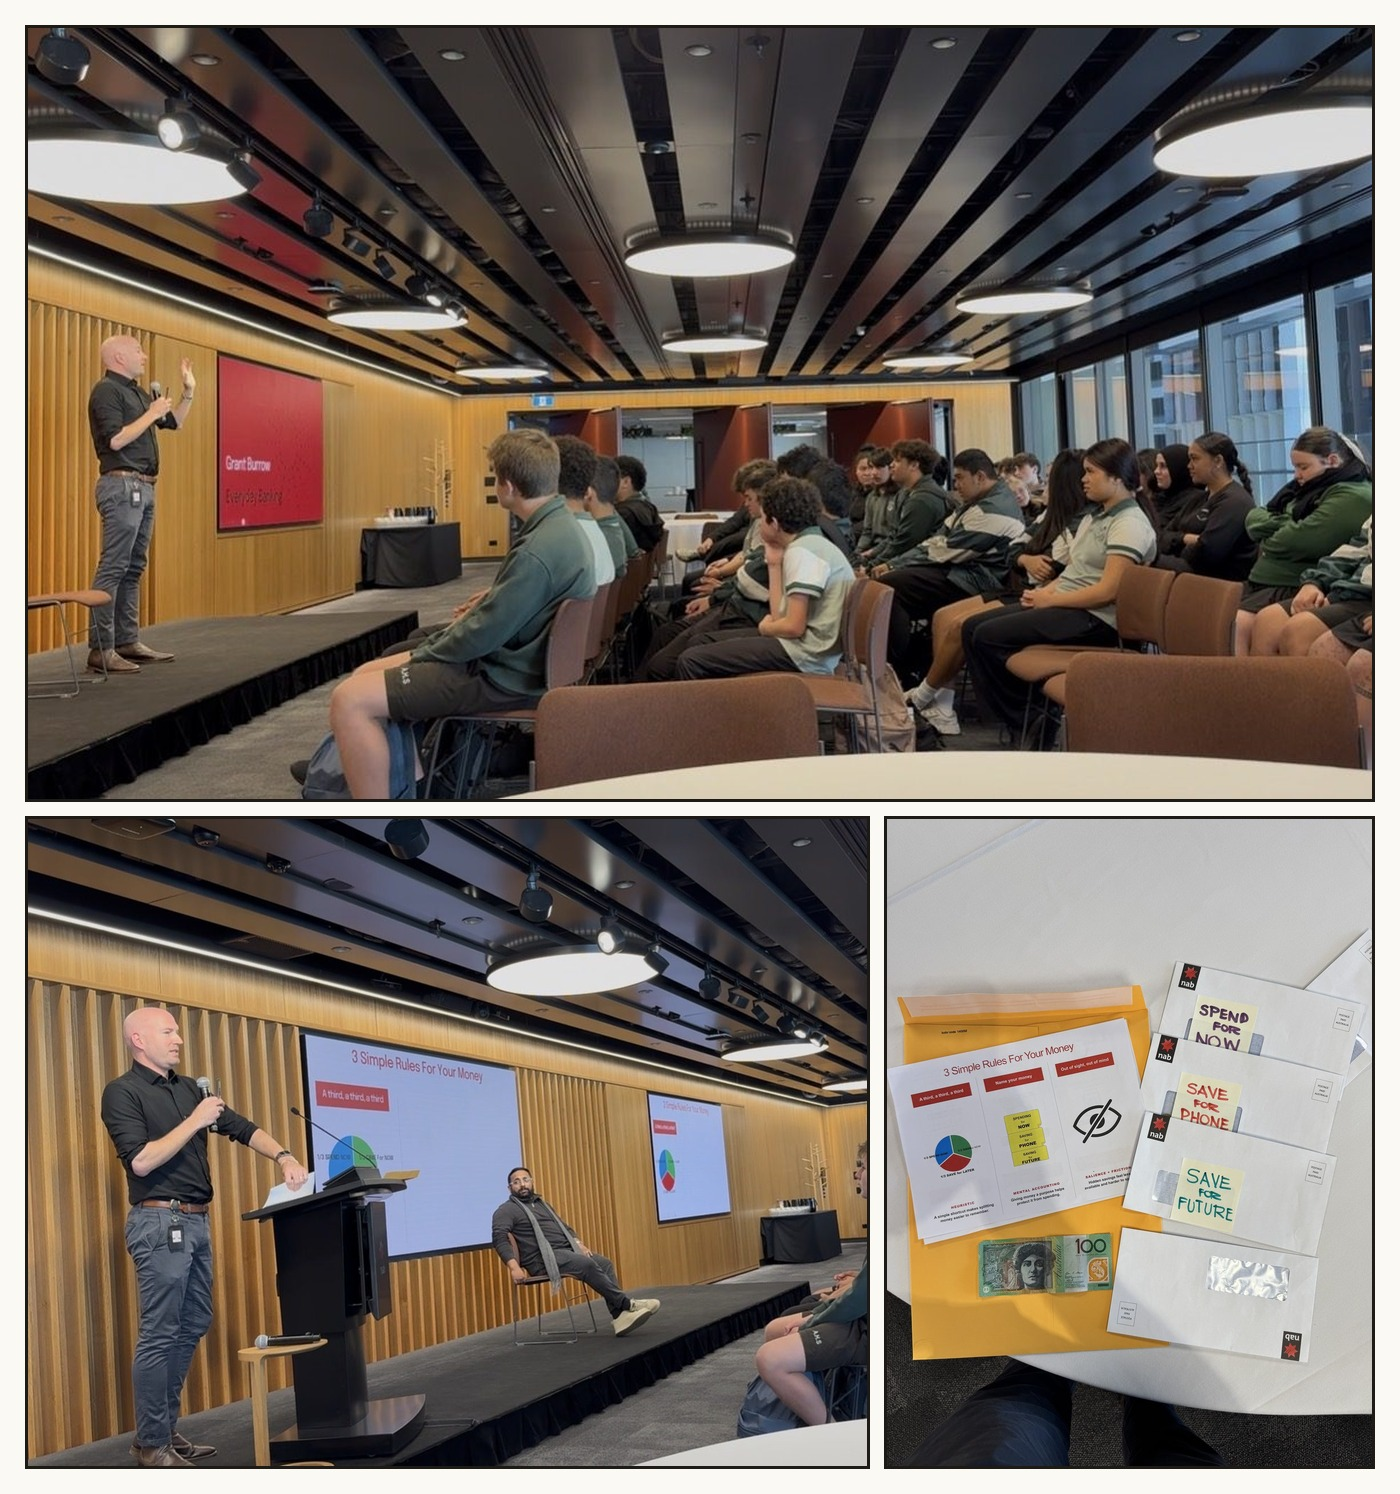
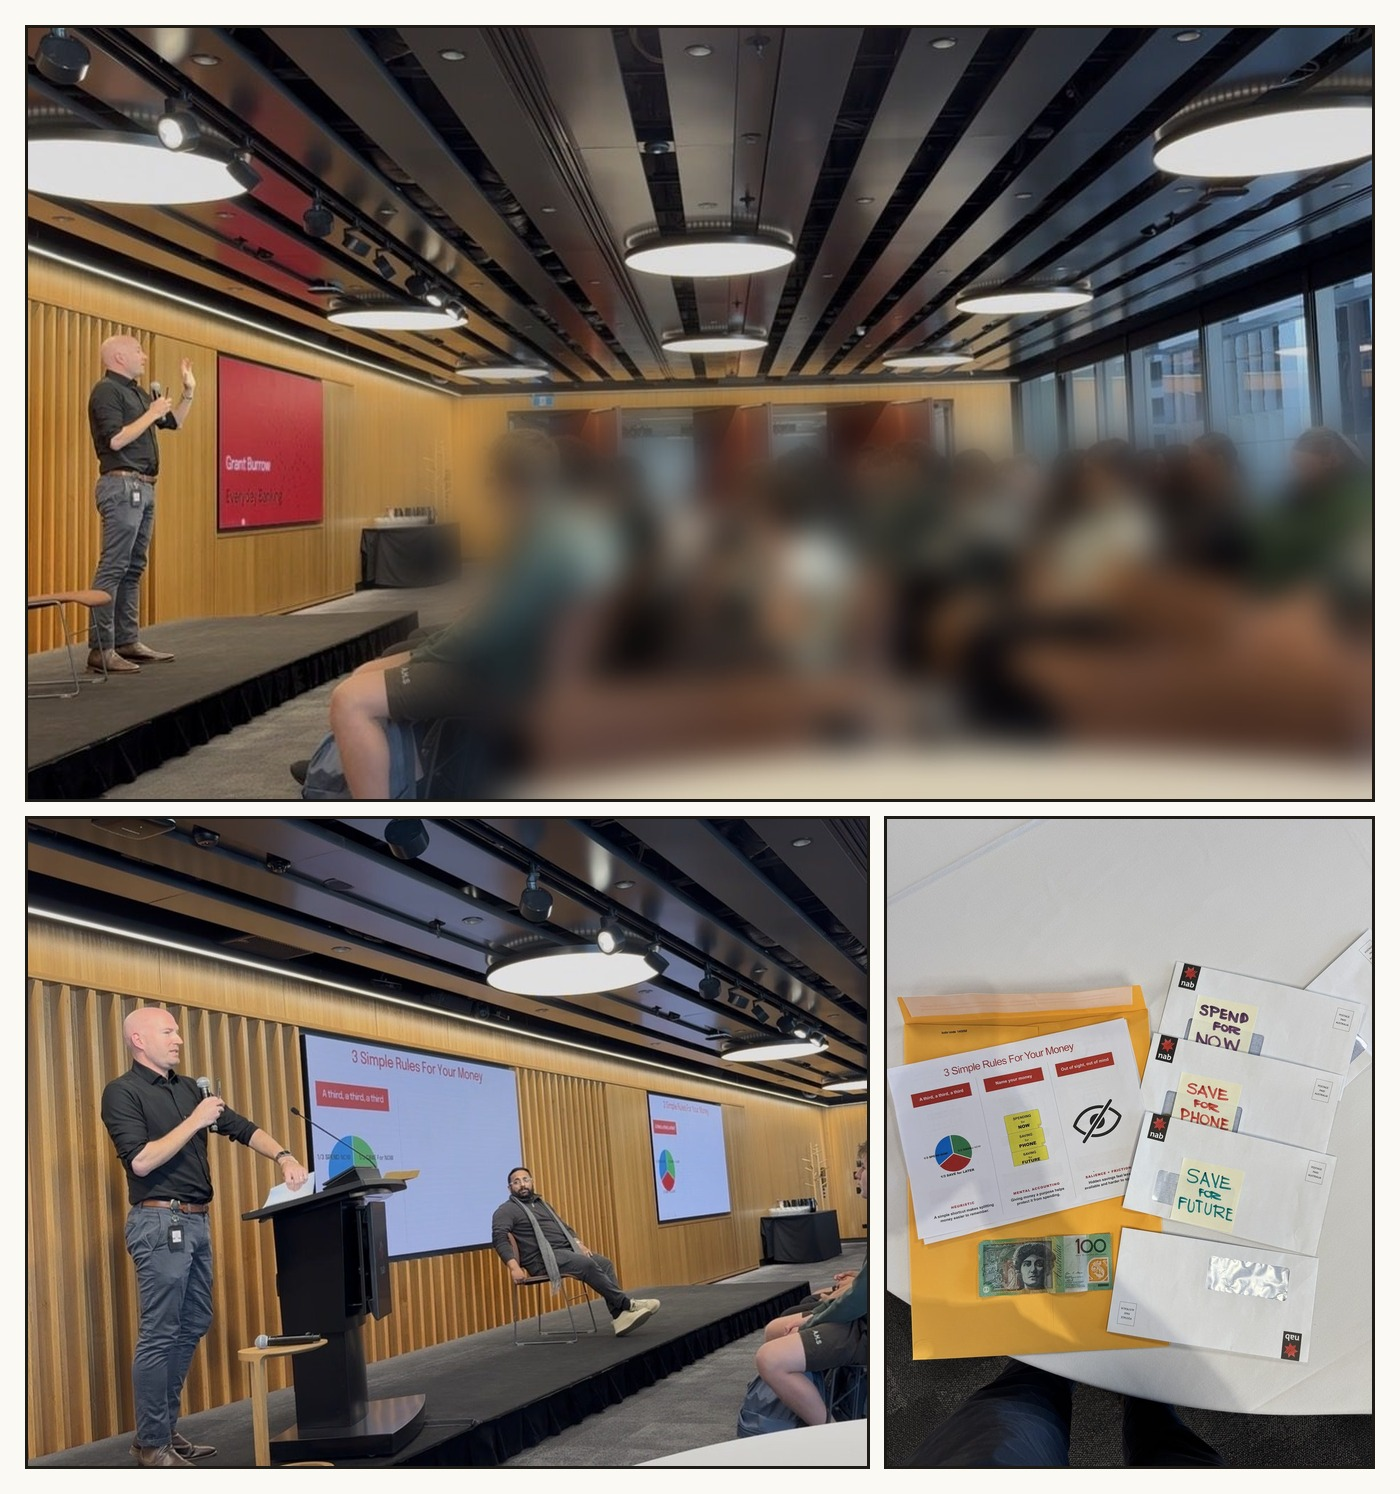
Blur crowd faces in Airds collage, codify copy-edit review format
Feathered blur over the audience block in the room-wide photo (per
direct feedback: students never agreed to appear in a public LinkedIn
post, unlike the same photo's existing use on sessions.html). Also
codifies into article-to-linkedin: every future LinkedIn draft uses
pre-filled, directly-editable text boxes from round one, not just from
round two onward, and any crowd photo gets the same blur treatment
before it goes into a collage.

Claude-Session: https://claude.ai/code/session_01Q6sAq7k5KJdTMe4pCpFx3P

Changed region(s): [[0.2764, 0.2463, 0.9829, 0.5542]]

diff --git a/.claude/skills/article-to-linkedin/SKILL.md b/.claude/skills/article-to-linkedin/SKILL.md
@@ -45,14 +45,14 @@ back any feedback the owner gives on a specific post per that skill's own
 2. **Find the real reason for sharing, and frame it as a service to the reader, not a report on your own work.** "Thought this was interesting" or "check out my latest piece" is exactly the generic framing the brief rejected, but so is a post that reads as "here's some research I did", even a specific, real reason for writing it. His round-1 correction, verbatim: less about the research itself and more "here is some of the interesting behavioural science behind it and how you might harness it in practical ways yourself". Open on a real, concrete, dated personal moment (he received the actual magazine two days ago, he found the actual object in his letterbox), then pivot straight to what the reader can do with the mechanism, not to a description of the piece he wrote. Don't restate the same idea across the first two paragraphs, if the opening moment and the pivot line are both explaining "why does this physical thing still exist", that's one idea said twice, cut one.
 3. **Draft the post applying `my-writing-style`.** Match its "doc / LinkedIn / external" surface section for structure (short paragraphs, a blank line between each, an emoji-bulleted list for a small sample of findings, no greeting), but don't force-fit a habit the profile documents for a different post type when it doesn't actually apply. His sampled posts are all live-event recaps with a named collaborator to thank early; an article share has no event and no collaborator, so that specific device gets dropped rather than manufactured, not silently, note it as a real gap between the sampled voice and this new post type when presenting the draft. Keep the length well under his usual 150-350 words when the post is pointing at a full piece rather than being the whole content itself, aim for roughly 120-220 words so the link still has a reason to be clicked.
 4. **The findings list is 2 main drivers, elaborated, not 3+ raw stats.** A first pass at this skill listed every citable finding in the article as its own one-line emoji bullet, mimicking the shape of his real "small sample" lists without their substance. His correction: pick the top 2 actual drivers of the argument, give each a little real elaboration in plain language, and use the specific numbers and citations as a parenthetical backing detail at the end of that bullet, not as the bullet's entire content. A third genuinely supporting finding can move into the surrounding prose instead of getting its own bullet, it doesn't need equal billing just because the article cites it.
-5. **Build the collage from the article's own real images, nothing stock.** Composite the 2-4 images that most concretely show what the post is about (not every image in the piece, the ones a reader needs to see to get the point) onto one flat image sized for a LinkedIn upload (roughly 1400x1000 or 1200x1200 works well for two portrait-oriented photos side by side). Keep the composition restrained: the site's own paper background token (`#FBF9F4`), a thin ink-toned border per photo, generous margins, no added text, no drop shadows or gradients competing with the real photos. Check every source image against the site's standing no-watermark policy before it goes anywhere near the collage, the same check any image gets before `mockup/images/`. If the article's images are all portrait-oriented, don't force a square or landscape canvas that crops them, size the canvas around what the real images actually are.
+5. **Build the collage from the article's own real images, nothing stock.** Composite the 2-4 images that most concretely show what the post is about (not every image in the piece, the ones a reader needs to see to get the point) onto one flat image sized for a LinkedIn upload (roughly 1400x1000 or 1200x1200 works well for two portrait-oriented photos side by side). Keep the composition restrained: the site's own paper background token (`#FBF9F4`), a thin ink-toned border per photo, generous margins, no added text, no drop shadows or gradients competing with the real photos. Check every source image against the site's standing no-watermark policy before it goes anywhere near the collage, the same check any image gets before `mockup/images/`. If the article's images are all portrait-oriented, don't force a square or landscape canvas that crops them, size the canvas around what the real images actually are. **Blur identifiable bystanders before anyone but him is in frame.** A field-session photo showing a crowd (students, workshop attendees, anyone who didn't agree to appear in a LinkedIn post specifically) needs their faces softened before the collage ships, even though the same unaltered photo is fine on the site's own field-session page, a talk recap on `sessions.html` and a public LinkedIn post are different exposure levels. His actual catch, on the Airds High collage: "Gentle blur / out of focus for th students' faces." The fix that held up: a single feathered Gaussian blur over the whole crowd region (not per-face masking, which is fragile and easy to miss one), leaving him and the stage/screen sharp, so it reads as an intentional shallow-depth-of-field photo rather than a patchy redaction. Never blur him, and never blur an adult professional colleague who's a named, willing participant in the post, this is about people who didn't choose to be identifiable to a LinkedIn audience.
 6. **Hashtags: use his real recurring cluster, don't force a 2-4 cap.** The original brief said "2-4 hashtags that aren't contrived", read the first time as a hard ceiling, which produced a thinner set than he actually wanted. His round-1 correction added four more from his own documented recurring set (`#behaviouralscience #customers #experimentation #outcomes`) on top of the three already there, landing at 7, which matches `my-writing-style`'s own documented range for him (5-7 tags per post) exactly. Default to his real cluster at its natural size, then add only the one or two genuinely article-specific tags on top (a real, standard industry term like `#customerloyalty` or `#directmail`, not a compound invented for the occasion like `#printvsdigital`). "Not contrived" is the actual bar, not a specific number.
 7. **Direct link, plain, no tracking parameters added, introduced as a personal invitation, not a citation label.** The article's canonical URL (`https://www.grantburrow.com/<slug>.html`), on its own line near the end. His round-3 correction: "Full piece, with all the citations:" reads like a formal source label; he changed it to "I did a fuller write up with visuals here for those interested:", a low-key, first-person hand-off rather than an academic pointer. Default to that register for the link line going forward.
 8. **Close on a plain, specific thought, never a tidy summary aphorism.** A first pass closed with "Digital is still cheaper to produce and send. Touch, memory, and price all point the other way", a rule-of-three wrap-up sentence that reads exactly like generated copy dressing up a plain point as a considered one. His catch, verbatim: "This first line reads like classic ai. Sounds like me as a human." The fix wasn't softer wording, it was structural: drop the neat list-of-three-things-that-point-the-other-way shape entirely and end on something a specific person would actually say out loud, a real question posed to the reader, a genuine next step, a plain observation with one real idea in it, not three packaged as a flourish.
 9. **Save the deliverable outside the deployed site.** GitHub Pages only publishes the `mockup/` directory (see `.github/workflows/*.yml`), so a LinkedIn post and its collage are not site content and don't belong there. Save to `linkedin-posts/<article-slug>/post.txt` (the plain post text, ready to paste, nothing else in the file, no headers or metadata) and `linkedin-posts/<article-slug>/collage.png` at the repo root.
 10. **Run the same finishing checks any of his own finished writing gets** before calling it done: the `authentic-voice` skill's fourteen hallmarks (a LinkedIn post is exactly the kind of short, punchy writing where a contrastive "X, not Y" or a rule-of-three sneaks in), no em dash (his own real posts use a spaced hyphen for an aside, never `&mdash;` or `—`), and a genuine read-through from a LinkedIn scroller's seat, not a mechanical checklist pass. Present the draft, name any place a real pattern from the sampled voice didn't apply and had to be dropped or improvised, and invite correction the way `my-writing-style`'s own "Applying this profile" section asks for.
-11. **Use the standing `oscarfinch-feedback-html` format to collect his feedback, item by item.** Don't just show the post as flowing text and wait for a verdict. Break it into the same real decisions this skill makes (opening hook, findings list, any commercial/practical-impact paragraph, closing line, collage, hashtags) as separate cards in that project's standard feedback template, so a "needs work" lands on the specific piece it's about, not the whole post. This is what actually produced the round-1 corrections below, a single freeform "thoughts?" would have gotten a vaguer answer.
-12. **From round 2 onward, once he's actually rewriting sentences rather than describing what's wrong, switch the feedback cards to the copy-edit variant.** See `oscarfinch-feedback-html`'s "A copy-editing request wants a live text box" section: a `<textarea>` pre-filled with the current copy per section, that he edits directly, instead of a toggle plus a comment describing the edit. His round-2 catch, verbatim: "want a section per content when the current copy is and I'll edit it … easier for this kind of copy editing." Round 1's toggle-plus-comment shape is still the right default for the very first pass (he's judging pieces, not yet rewriting them), but don't make him ask for the copy-edit variant twice on the same post, offer it as soon as a round produces an actual rewritten sentence in his feedback rather than a description of one.
+11. **Use the standing `oscarfinch-feedback-html` format to collect his feedback, item by item, and use the copy-edit variant for every text card from round 1, not just from round 2 onward.** Break the post into the same real decisions this skill makes (opening hook, findings list, any commercial/practical-impact paragraph, closing line, hashtags) as separate cards, so a "needs work" lands on the specific piece it's about, not the whole post. Every card whose content is prose he might want to rewrite gets a `<textarea data-copytext>` **pre-filled with the current copy** (per `oscarfinch-feedback-html`'s "A copy-editing request wants a live text box" section) so he can edit directly in the box, rather than a toggle plus a comment describing the edit he wants. This was originally scoped to "round 2 onward, once he's actually rewriting sentences," but his explicit instruction on the Airds High draft overrides that: "I need the html so I can edit directly," applied to every draft from the first round, no toggle-plus-comment warm-up round first. The image/collage card is the one exception, it isn't prose to rewrite, so it keeps the binary toggle plus a real comment box (that's exactly how the blur feedback above came in). Track each textarea's original value in `dataset.original` on load and compile the feedback panel from the box's current value, tagged `(edited)` or `(unchanged)`, never from a toggle state, for every text card.
+12. **Apply his returned edits, then feed them back into `my-writing-style` and this skill, not just into the one post.** A rewritten sentence he sends back through the copy-edit boxes is a direct sample of his real voice on this content type, richer signal than a comment describing a fix. After applying his edits to the post, check whether the edit reveals a pattern (a phrase he always cuts, a rhythm he prefers, a fact he tightens for accuracy) worth adding to `my-writing-style`'s "Updating this profile" section or to this skill's own rules, the same way round 1 and round 3's feedback below got folded in rather than treated as one-off fixes.
 
 ## Round 1 feedback: what changed after his first review
 
@@ -63,6 +63,14 @@ The first real draft (the-tactile-premium.html post) shipped with a rhetorical-q
 When he returns edited copy through the copy-edit review (step 12), he sometimes leaves a bracketed or parenthetical note inside the text telling Claude what to do at that spot, rather than writing the literal words he wants shipped, e.g. "(five link to the article on my site)" as a rough, possibly dictation-garbled instruction to insert the actual article URL there, not to paste that phrase verbatim into the post. Read every returned edit for this before applying it literally: if a clause reads like a note addressed to Claude (mentions "link", "insert", "add", is bracketed, or is otherwise not something a reader would see in the finished post), treat it as a directive and resolve it (here, substitute the real URL in a natural sentence), the same way the global CLAUDE.md guardrail says review scaffolding must never leak into a finished deliverable. Everything else he returns in that box is his real prose and goes in verbatim, including rough edges (a missing comma, an unconventional phrase like "Eg" as a lead-in) that reflect the "doesn't over-polish" trait `my-writing-style` already documents.
 
 This round also produced one substantive rigor edit worth carrying forward as a default, not just applying once: he changed "Identical content is worth more once it's physical" to "Identical content can be perceived as worth more once it's physical", turning a flat factual claim into an accurately-scoped one (the cited studies measured valuation and willingness-to-pay, not an objective fact about worth). Apply the same scrutiny by default when drafting a bullet from a valuation/perception study, "X is worth more" overclaims what a WTP study actually shows, "X is perceived as worth more" or "people valued/paid more for X" doesn't.
+
+## Round 4 feedback: every draft uses the copy-edit boxes, and crowd photos get blurred
+
+On the Airds High School draft (a field-session recap, not an article share, the first time this skill was applied to that content type), two corrections landed in the same round, both folded into steps 5 and 11 above rather than treated as one-off fixes:
+
+His exact words: "Remember I need the html so I can edit directly and you'll then use that feedback to learn. Codify sk[ill] every LinkedIn post draft uses this." This retires the old round-1/round-2 split entirely, there's no more warm-up round with toggles and comments before switching to editable text boxes; every text card on every draft, from the first one shown, is a pre-filled `<textarea>` he edits directly.
+
+Separately, on the collage card specifically, still using the toggle (it's an image, not prose): "Needs work. Gentle blur / out of focus for th students' faces." The room-wide photo showed a full classroom of identifiable minors who never agreed to appear in a public LinkedIn post, distinct from the site's own use of the same photo on `sessions.html`, where it's a talk recap, not amplified to a public feed. See step 5's blur rule above for the fix.
 
 ## A note on rigor
 
